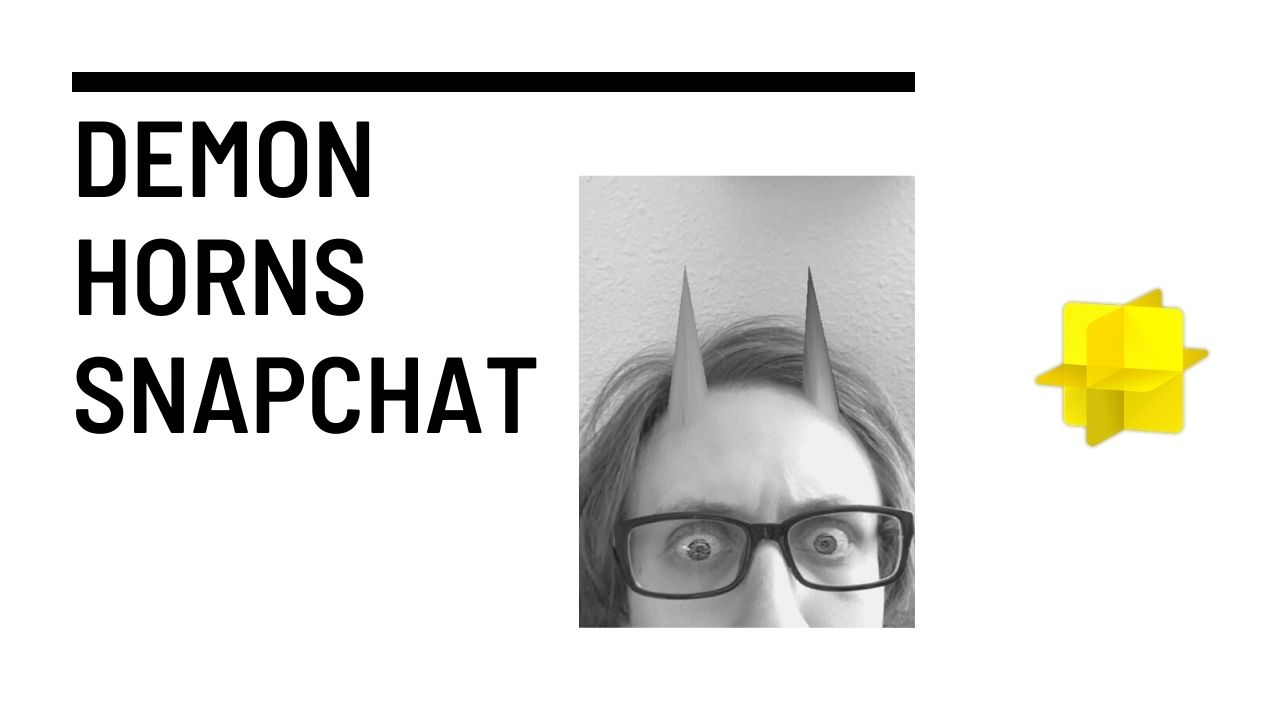
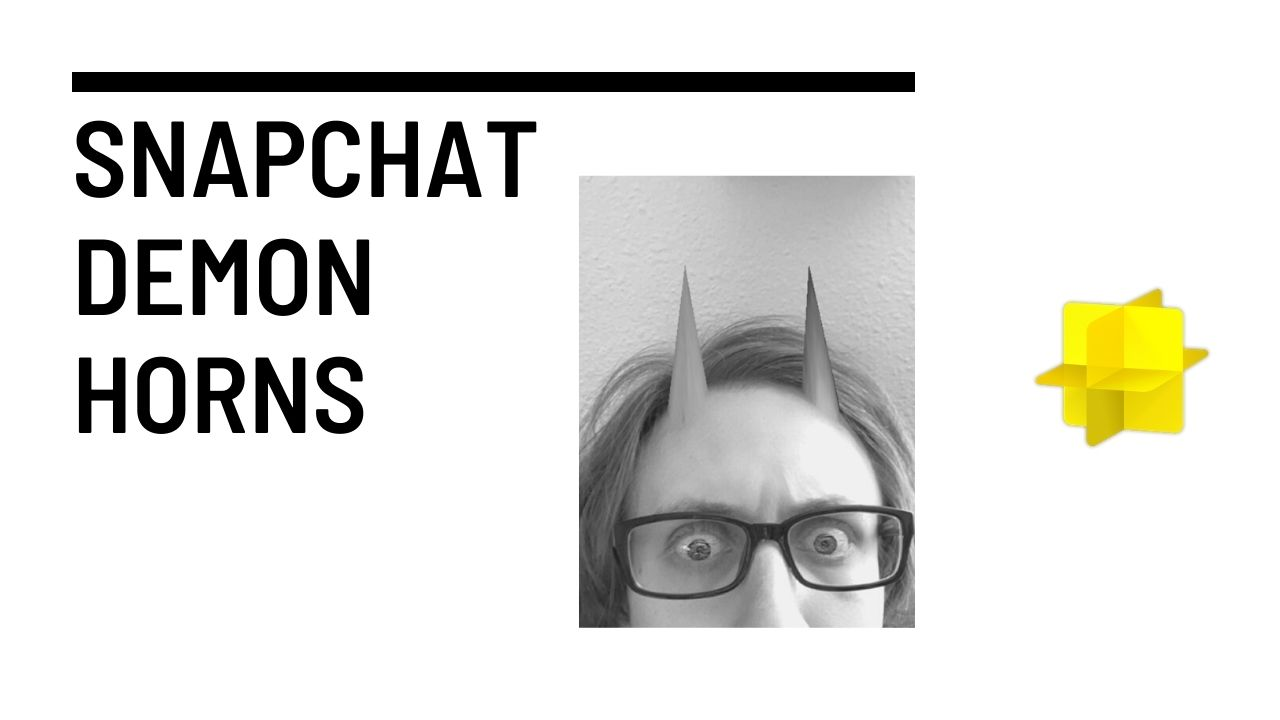
changing image text and adding link to example lens

Changed region(s): [[0.0625, 0.4889, 0.4375, 0.6111], [0.0625, 0.1528, 0.4375, 0.275], [0.0625, 0.3056, 0.3125, 0.4583]]

diff --git a/src/landing/lens-studio/demon-horns.md b/src/landing/lens-studio/demon-horns.md
@@ -7,7 +7,7 @@ platform: Snapchat
 software: Lens Studio
 ---
 
-Have you noticed demon horn lenses starting to take over the Trending section lately in Snapchat? Find out how easy it is to create your own demon horn lens!
+Have you noticed [demon horn lenses](https://www.snapchat.com/unlock/?type=SNAPCODE&uuid=6eee37c41cca422ba217d1fb39fefe56&metadata=01) starting to take over the Trending section lately in Snapchat? Find out how easy it is to create your own demon horn lens!
 
 ## The 3 minute version
 
